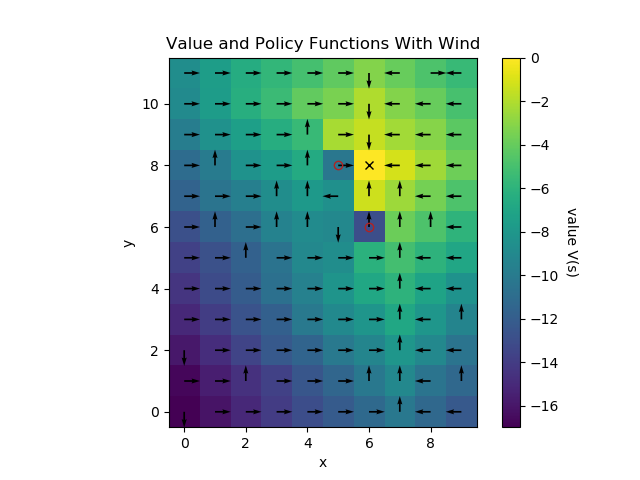
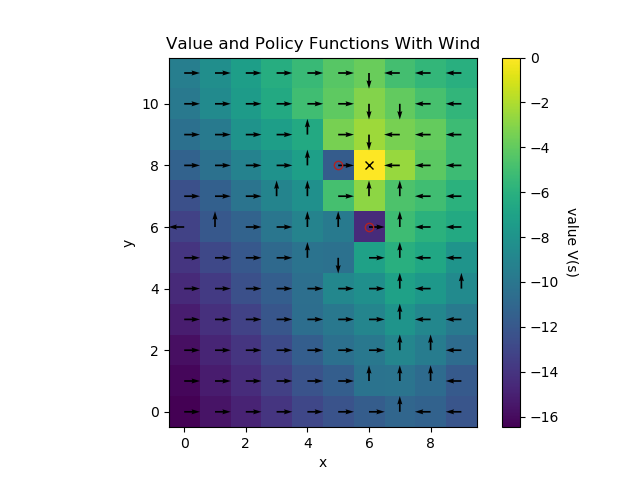
Change wind probabilities and edit readme

diff --git a/python/windy_gridworld.py b/python/windy_gridworld.py
@@ -29,8 +29,8 @@ Q_LEARNING = "q_learning"
 PLOT_FILENAME = "value_and_policy_functions_solved_by_{algorithm}_{wind_description}"
 PLOT_DIR = "./plots"
 
-PR_WIND_UP = 0.1
-PR_WIND_DOWN = 0.2
+PR_WIND_UP = 0.3
+PR_WIND_DOWN = 0.3
 
 
 def is_valid_probability(x):
@@ -472,6 +472,11 @@ def main():
 
     windless_gridworld.run_policy_iteration()
     windless_gridworld.save_value_and_policy_function_plot(POLICY_ITERATION)
+
+    # Notice that the value function is generally (but not always!) larger in the windless case
+    print("Differences in value function (value without wind - value with wind)")
+    diff_in_value = windless_gridworld.value[POLICY_ITERATION] - gridworld.value[POLICY_ITERATION]
+    print(diff_in_value.round(1))
 
 
 if __name__ == "__main__":

diff --git a/README.md b/README.md
@@ -10,11 +10,13 @@ Solutions:
 * [WindyGridWorld.jl](julia/WindyGridWorld.jl)
 * [windy_gridworld.py](python/windy_gridworld.py)
 
-This problem is loosely based on example 6.5 in
+This problem is loosely based on Figure 4.2 and on Example 6.5 in
 [Reinforcement Learning](https://web.stanford.edu/class/psych209/Readings/SuttonBartoIPRLBook2ndEd.pdf)
 by Sutton and Barto.
 
 ![Value and Policy Functions](python/plots/value_and_policy_functions_solved_by_policy_iteration_with_wind.png)
+
+![Value and Policy Functions](python/plots/value_and_policy_functions_solved_by_policy_iteration_without_wind.png)
 
 The agent's state is their (x, y) location on a grid,
 and the actions are {stay, left, right, down, up}.
@@ -38,6 +40,21 @@ involves circumventing the obstacles by a wide margin in the
 y direction.
 
 The addition of randomness (the wind) changes the solution in
-subtle ways. [TODO Explain (1) frequency of ties and
-(2) locations in the state space where the value function
-is either higher or lower relative to the windless case]
+subtle ways:
+
+* In the non-stochastic version of the problem (i.e. without wind),
+there are many more ties in the policy function
+(i.e. points in the state space at which there are multiple optimal actions).
+There exist multiple paths of equal length that avoid the obstacles and reach the
+target point in an optimal number of steps, and the agent has no reason to prefer
+one such path above another. Adding wind breaks _most_ (but not all) ties:
+with wind, the agent generally prefers to remain far from the obstacles (to reduce the
+probability of being blow into one), but also has the possibility of using the wind
+advantageously (by moving horizontally and letting the wind move the agent vertically).
+
+* The value function is _generally_ lower with wind (because the agent now faces
+the risk that they will hit an obstacle, even when they act optimally), but at
+certain values of the wind probabilities and at certain points in the state space,
+the reverse can be true.
+
+* It is sometimes optimal for the agent to walk straight towards the obstacle!
